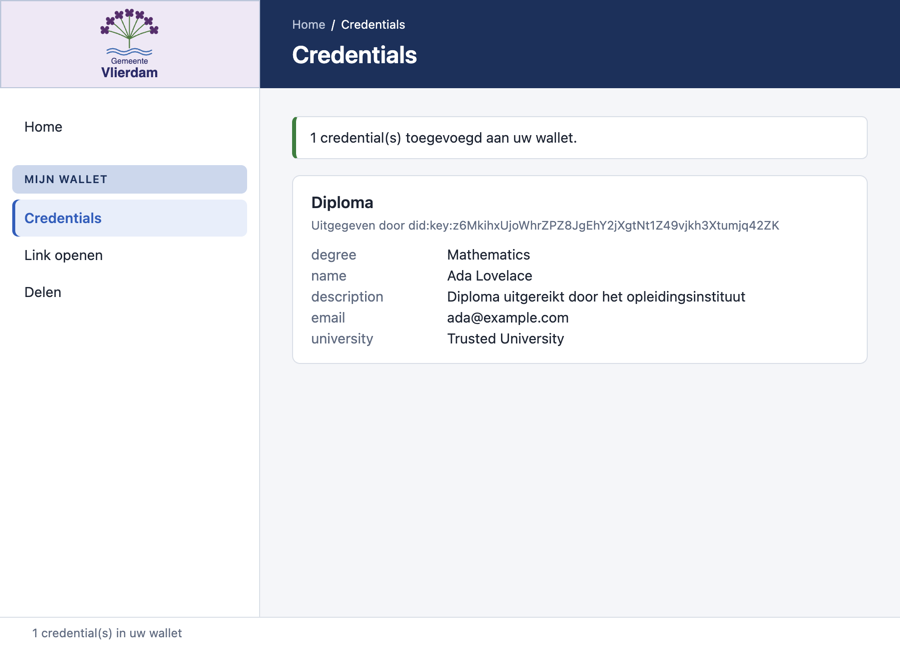
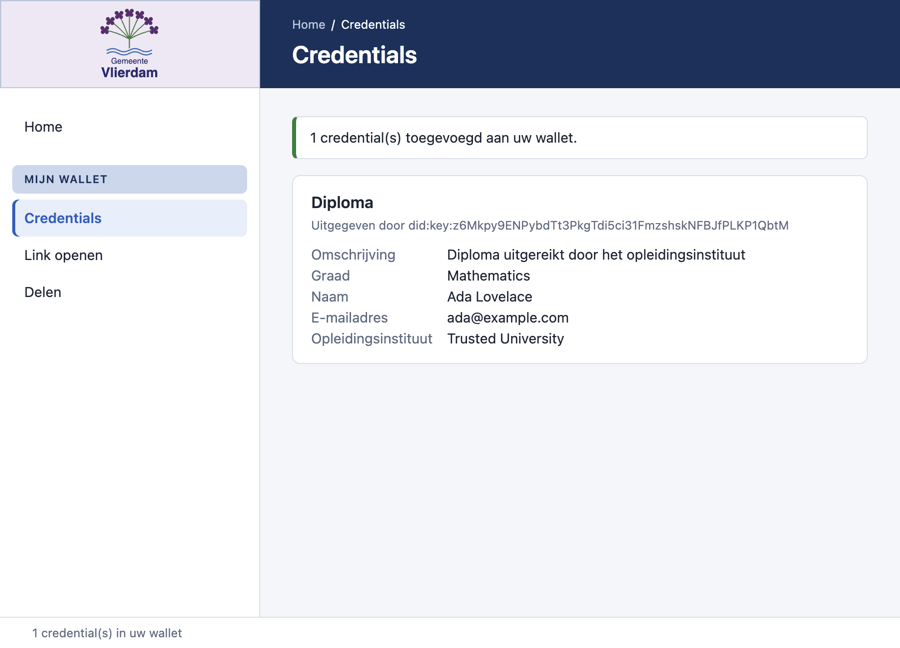
Show claims in the wallet under Dutch labels

Changed region(s): [[0.4978, 0.3395, 0.8711, 0.4938], [0.3422, 0.3704, 0.4667, 0.5556]]

diff --git a/wallet-desktop/e2e/wallet.spec.ts b/wallet-desktop/e2e/wallet.spec.ts
@@ -116,6 +116,7 @@ test.describe.serial("desktop wallet", () => {
     const card = window.getByRole("region", { name: "Credentials" });
     await expect(card).toContainText("Diploma");
     await expect(card).toContainText("ada@example.com");
+    await expect(card).toContainText("Graad");
     await expect(card).toContainText("Mathematics");
     await window.screenshot({ path: process.env.ATTESTA_E2E_SCREENSHOT });
   });
@@ -150,8 +151,8 @@ test.describe.serial("desktop wallet", () => {
     const dialog = window.getByRole("dialog");
     await expect(dialog).toContainText("Informatie delen?");
     await expect(dialog).toContainText(responseUri);
-    await expect(dialog).toContainText("degree");
-    await expect(dialog).toContainText("email");
+    await expect(dialog).toContainText("Graad");
+    await expect(dialog).toContainText("E-mailadres");
     expect(answers).toHaveLength(0);
 
     await dialog.getByRole("button", { name: "Delen", exact: true }).click();
@@ -193,7 +194,7 @@ test.describe.serial("desktop wallet", () => {
     expect(answers).toHaveLength(before + 1);
 
     await openLink(diplomaRequest("s-4"));
-    await expect(window.getByRole("status")).toContainText(`Gedeeld: degree, email met redirect_uri:${responseUri}`);
+    await expect(window.getByRole("status")).toContainText(`Gedeeld: Graad, E-mailadres met redirect_uri:${responseUri}`);
     await expect(window.getByRole("dialog")).toHaveCount(0);
     expect(answers).toHaveLength(before + 2);
     expect(answers[before + 1].get("state")).toBe("s-4");
@@ -231,7 +232,7 @@ test.describe.serial("desktop wallet", () => {
     await expect.poll(() => answers.length).toBe(before + 1);
     const [first] = await popups();
     expect(first.message).toContain(application);
-    expect(first.detail).toBe("• wie het heeft uitgegeven\n• degree\n• email");
+    expect(first.detail).toBe("• wie het heeft uitgegeven\n• Graad\n• E-mailadres");
     expect(first.buttons).toEqual(["Delen", "Altijd delen", "Weigeren"]);
     await expect(window.getByRole("dialog")).toHaveCount(0);
 

diff --git a/wallet-desktop/src/main/main.ts b/wallet-desktop/src/main/main.ts
@@ -9,6 +9,7 @@ import { loadOrCreateStoreKey } from "./keystore.js";
 import { WalletService } from "./service.js";
 import { decision, nothingToShare, promptFor } from "./prompt.js";
 import { applicationOf, WalletSettings } from "./settings.js";
+import { claimLabel } from "../shared/labels.js";
 
 const here = fileURLToPath(new URL(".", import.meta.url));
 const LINK_SCHEMES = ["openid-credential-offer", "openid4vp"];
@@ -98,7 +99,7 @@ function announce(shared: Shared) {
   if (!Notification.isSupported()) return;
   const who = applicationOf(shared.verifier) ?? shared.verifier;
   const sent = shared.status < 400;
-  new Notification({ title: sent ? "Gedeeld" : "Niet gedeeld", body: sent ? `${shared.claims.join(", ")} met ${who}` : `${who} heeft het antwoord niet geaccepteerd` }).show();
+  new Notification({ title: sent ? "Gedeeld" : "Niet gedeeld", body: sent ? `${shared.claims.map(claimLabel).join(", ")} met ${who}` : `${who} heeft het antwoord niet geaccepteerd` }).show();
 }
 
 // Registering as the handler for these schemes changes the user's system, so only an installed app does it.

diff --git a/wallet-desktop/src/renderer/App.tsx b/wallet-desktop/src/renderer/App.tsx
@@ -1,5 +1,6 @@
 import { useCallback, useEffect, useState } from "react";
 import type { HeldCredential, Pending } from "../shared/api.js";
+import { claimLabel } from "../shared/labels.js";
 import { Consent } from "./Consent.js";
 import { CredentialList } from "./CredentialList.js";
 import { Blocks, Shell } from "./Layout.js";
@@ -42,7 +43,7 @@ export function App() {
     try {
       const result = await window.wallet.prepare(value);
       if (!result.ok) setNotice({ kind: "error", text: result.error });
-      else if (result.value.kind === "shared") setNotice({ kind: "info", text: `Gedeeld: ${result.value.claims.join(", ")} met ${result.value.verifier}.` });
+      else if (result.value.kind === "shared") setNotice({ kind: "info", text: `Gedeeld: ${result.value.claims.map(claimLabel).join(", ")} met ${result.value.verifier}.` });
       else setPending(result.value);
     } finally {
       setBusy(false);

diff --git a/wallet-desktop/src/main/prompt.ts b/wallet-desktop/src/main/prompt.ts
@@ -1,4 +1,5 @@
 import type { Pending } from "../shared/api.js";
+import { claimLabel } from "../shared/labels.js";
 
 type PresentationRequest = Extract<Pending, { kind: "presentation" }>;
 
@@ -38,7 +39,7 @@ export function signInPrompt(request: PresentationRequest): Prompt {
 
 export function sharePrompt(request: PresentationRequest): Prompt {
   const who = request.application ?? request.verifier;
-  const lines = request.requested.flatMap((r) => ["wie het heeft uitgegeven", ...r.claims]);
+  const lines = request.requested.flatMap((r) => ["wie het heeft uitgegeven", ...r.claims.map(claimLabel)]);
   const canRemember = request.application !== undefined;
   return {
     message: `Informatie delen met ${who}?`,

diff --git a/wallet-desktop/src/renderer/CredentialList.tsx b/wallet-desktop/src/renderer/CredentialList.tsx
@@ -1,4 +1,5 @@
 import type { HeldCredential } from "../shared/api.js";
+import { claimLabel } from "../shared/labels.js";
 
 // Fields that belong to the credential's mechanics, not to what it says about the holder.
 const technical = new Set(["iss", "iat", "exp", "nbf", "vct", "cnf", "_sd_alg", "status"]);
@@ -18,7 +19,7 @@ export function CredentialList({ credentials }: { credentials: HeldCredential[] 
               .filter(([name]) => !technical.has(name))
               .map(([name, value]) => (
                 <div key={name}>
-                  <dt>{name}</dt>
+                  <dt>{claimLabel(name)}</dt>
                   <dd>{String(value)}</dd>
                 </div>
               ))}

diff --git a/wallet-desktop/src/main/prompt.test.ts b/wallet-desktop/src/main/prompt.test.ts
@@ -15,7 +15,7 @@ describe("sharePrompt", () => {
   it("names the application and lists what would be shared, once each", () => {
     const p = sharePrompt({ ...request("https://api.example"), requested: [{ type: ["A"], claims: ["email"] }, { type: ["B"], claims: ["email", "diploma"] }] });
     expect(p.message).toContain("https://api.example");
-    expect(p.detail).toBe("• wie het heeft uitgegeven\n• email\n• diploma");
+    expect(p.detail).toBe("• wie het heeft uitgegeven\n• E-mailadres\n• Diploma");
   });
 
   it("offers Altijd delen only for an application the user can trust", () => {

diff --git a/wallet-desktop/src/renderer/Consent.tsx b/wallet-desktop/src/renderer/Consent.tsx
@@ -1,5 +1,6 @@
 import { useState } from "react";
 import type { Pending } from "../shared/api.js";
+import { claimLabel } from "../shared/labels.js";
 
 interface Props {
   pending: Pending;
@@ -60,7 +61,7 @@ export function Consent({ pending, busy, onApprove, onDecline }: Props) {
                 <ul>
                   <li>wie het heeft uitgegeven</li>
                   {request.claims.map((claim) => (
-                    <li key={claim}>{claim}</li>
+                    <li key={claim}>{claimLabel(claim)}</li>
                   ))}
                 </ul>
               </div>

diff --git a/wallet-desktop/src/shared/labels.ts b/wallet-desktop/src/shared/labels.ts
@@ -1,0 +1,13 @@
+// What a claim is called to the user. Claims this wallet does not know are shown by their own name.
+const LABELS: Record<string, string> = {
+  name: "Naam",
+  email: "E-mailadres",
+  degree: "Graad",
+  university: "Opleidingsinstituut",
+  department: "Afdeling",
+  organisation: "Organisatie",
+  diploma: "Diploma",
+  description: "Omschrijving",
+};
+
+export const claimLabel = (claim: string): string => LABELS[claim] ?? claim;
